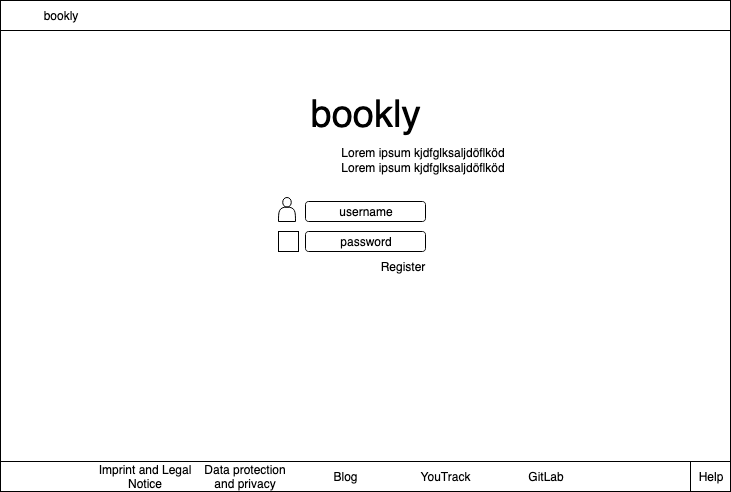
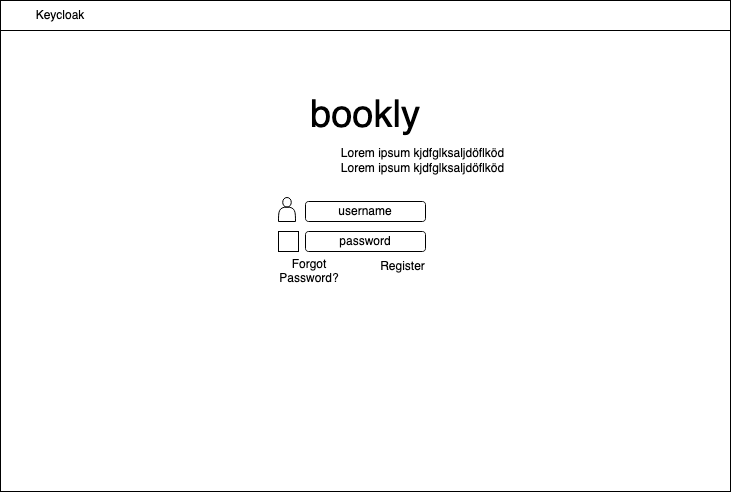
update UC for account and add UC for header

diff --git a/design/Account.md b/design/Account.md
@@ -3,7 +3,10 @@
 
 ### 1 Brief Description
 
-This use case describes the (un)registration, login and logout into our web app.
+This use case describes the (un)registration, login and logout of our web app. For every account flow, we decided to integrate
+the identity management solution *Keycloak*. Every protected side will redirect to the running Keycloak instance where it handles
+the account requests. This shall have the security advantage that our backend will never see any kind of sensitive credentials
+or has to handle and update authentication processes.
 
 ## 2. Flow of Events
 
@@ -11,13 +14,16 @@ This use case describes the (un)registration, login and logout into our web app.
 
 ### 2.1 Basic flow
 
-In general a user can decide to log in or to register. In the case that one's logged in one can delete its whole account
-including the data or to log out.
+For accessing protected content, the visitor will be redirected to the login and registration form of keycloak. There
+one can login or register the account. After a successful authentication, one will be redirected back to the application.
+As one is logged in, one can also change its profile data. For this, a custom user interface shall be implemented and
+send the relevant data to Keycloak where it will be updated. If one does not intend to change its data or do anything else on
+our application, one can log out or go even further and delete its whole account and data.
 
 ### 2.2 Login  
 
-When entering our website, the first page that is shown is the login mask. A username and a password is needed. Is the login
-successful, one will be redirected to his profile page. Otherwise a error message will show up and he can repeat his login
+For accessing protected content, the visitor will be redirected to the login form of keycloak. A username and a password is needed, also some personal data.  Is the login
+can be requested. Is the login successful, one will be redirected to his profile page. Otherwise a error message will show up and he can repeat his login
 or register.
 
 ![Login](login.png "Login")
@@ -27,18 +33,22 @@ or register.
 When browsing trough his pages or editing his cover, a user has can select an option in the header of the website.
 By clicking on logout, he will be logged out and redirected to the login mask.
 
-TBD Book page with logout option
+![Logout](header.png "Logout")
 
 ### 2.4 Register
 
-For registering a username and a mail is needed. If the username is already taken an error message should show up.
+For registering a username and a password is needed, also some personal data. If the username is already taken an error message should show up.
 To protect against bots, a captcha query is built in. In addition, the general data protection guidelines must be accepted.
-After confirmation, an e-mail is generated and sent in which the user activates his account by clicking on the link. 
-He will be redirected to the login page and can now log in there.
+After confirmation, a new account will be created and redirect the user directly to the startpage.
 ![Registration](registration.png "Registration")
 
-### 2.5 Delete/Unregister
+### Account Management
+By clicking on the settings in the header, a user can click on profile and edit on its profile page his data. This is a custom
+page and no redirection to Keycloak. Every request will be handled in the backchannel and send therefore to Keycloak.
+Every personal data is allowed to be changed and updated (but not the username as it is used for the authentication).
+![Header](header.png "Header")
 
-A user can delete his account including every data of his friendship book by going to his profile and selecting delete. 
-![Profile](profile.png "Delete a page")
+A user can also delete his account including every data of his friendship book by going to his profile and selecting delete. 
+![Account Management](profile.png "Account Management")
+
 

diff --git a/design/Header.md b/design/Header.md
@@ -1,0 +1,21 @@
+# BOOKLY - Software Requirements Specification
+## Use-Case Specification: Header
+
+### 1 Brief Description
+
+The header is intended to quickly access the main functionality of our webapp.
+
+## 2. Flow of Events
+
+![HeaderFlow](Headerflow.png "HeaderFlow")
+
+### 2.1 Basic flow
+
+The user can access its profile settings or logout, go to his own friendship book or invite
+some friends to look into his book.
+![Header](header.png "Header")
+
+See [Account Operations](Account.md), [Read Book](ReadBook.md) and TBD Invite
+
+
+
